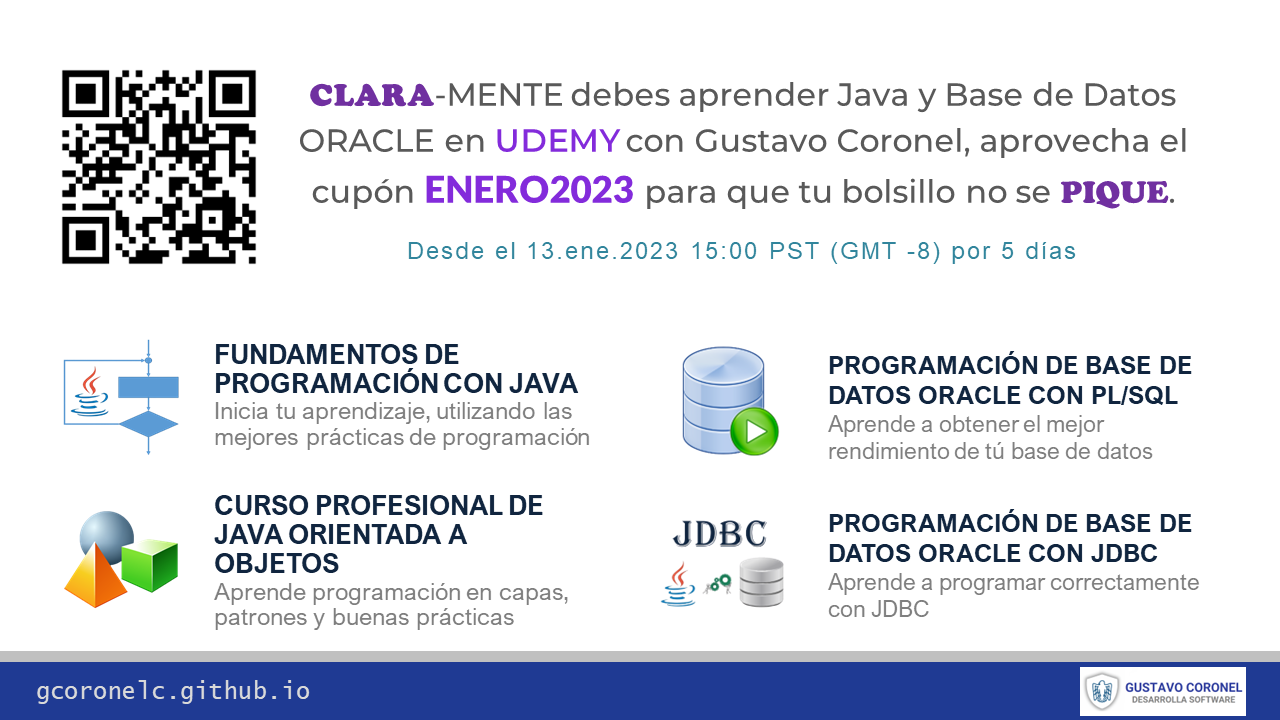
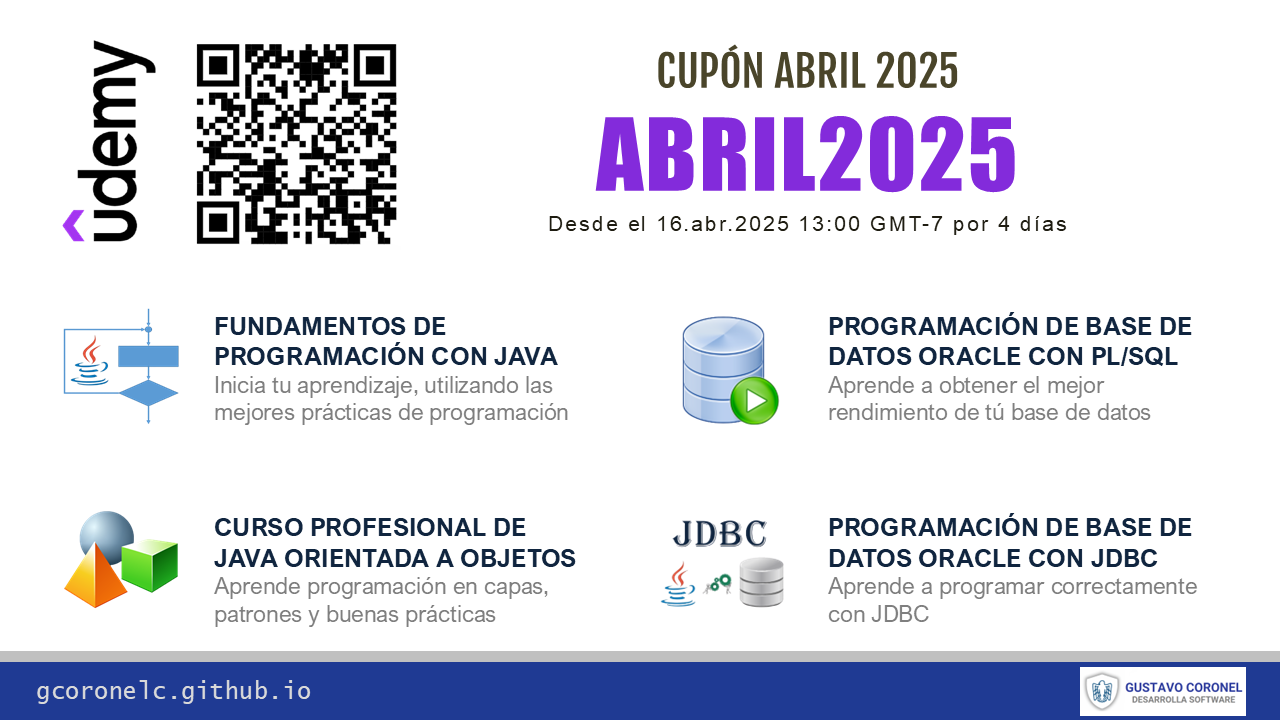
ABRIL2025

diff --git a/index.html b/index.html
@@ -75,7 +75,7 @@
     <div class="container-fluid m-2">
       <div class="row justify-content-center">
         <div class="col-lg-6">
-          <img src="img/egcc1.png" class="img-fluid" alt="ERIC GUSTAVO CORONEL CASTILLO">
+          <img src="img/egcc2.png" class="img-fluid" alt="ERIC GUSTAVO CORONEL CASTILLO">
         </div>
       </div>
     </div>
@@ -85,9 +85,9 @@
       <div class="card">
         <div class="card-header">
           <h4 class="card-title text-primary">CURSOS VIRTUALES EN UDEMY</h4>
-          <h6 class="card-subtitle mb-2 text-secondary"><b>CUPON: MARZO2025</b></h6>
+          <h6 class="card-subtitle mb-2 text-secondary"><b>CUPON: ABRIL2025</b></h6>
 		  <h6 class="card-subtitle mb-2 text-secondary"><b>COSTO: $9.99</b></h6>
-          <h6 class="card-subtitle text-secondary"><b>VIGENCIA: Desde el 30.ENE.2024 23:59 PST (GMT -8) por 5 días</b></h6>
+          <h6 class="card-subtitle text-secondary"><b>VIGENCIA: Desde el 16.ABR.2025 13:01 PDT (GMT -7) por 4 días</b></h6>
         </div>
         <div class="card-body">
           <div class="row">
@@ -100,7 +100,7 @@
                   <div class="youtube-player" data-id="1mcdHGywMvk"></div>
                 </div>
                 <div class="card-footer">
-                  <a class="btn btn-info btn-block" target="_blank" href="https://www.udemy.com/course/fund-java/?couponCode=MARZO2025">Click aquí para ir al curso</a>
+                  <a class="btn btn-info btn-block" target="_blank" href="https://www.udemy.com/course/fund-java/?couponCode=ABRIL2025">Click aquí para ir al curso</a>
                 </div>
               </div>
             </div>
@@ -113,7 +113,7 @@
                   <div class="youtube-player" data-id="EKlwF12-l9Y"></div>
                 </div>
                 <div class="card-footer">
-                  <a class="btn btn-info btn-block" target="_blank" href="https://www.udemy.com/course/java-orientado-a-objetos/?couponCode=MARZO2025">Click aquí para ir al curso</a>
+                  <a class="btn btn-info btn-block" target="_blank" href="https://www.udemy.com/course/java-orientado-a-objetos/?couponCode=ABRIL2025">Click aquí para ir al curso</a>
                 </div>              
               </div>
             </div>
@@ -126,7 +126,7 @@
                   <div class="youtube-player" data-id="MR53Xgeg28Y"></div>
                 </div>
                 <div class="card-footer">
-                  <a class="btn btn-info btn-block" target="_blank" href="https://www.udemy.com/course/java-jdbc-oracle/?couponCode=MARZO2025">Click aquí para ir al curso</a>
+                  <a class="btn btn-info btn-block" target="_blank" href="https://www.udemy.com/course/java-jdbc-oracle/?couponCode=ABRIL2025">Click aquí para ir al curso</a>
                 </div>              
               </div>
             </div>
